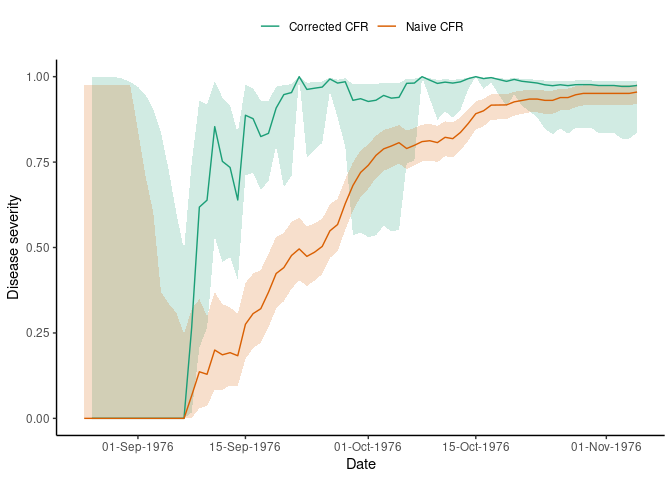
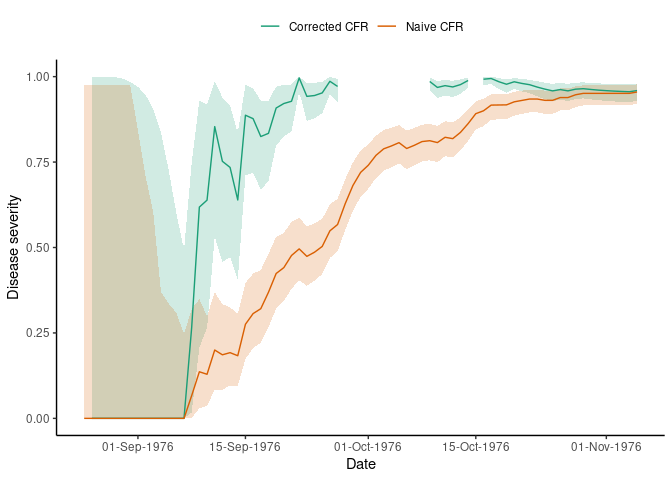
Remove normal approximation (#153)
* Remove normal approximation

Given instability of the normal approximation for many values (especially given asymmetric likelihood), and because binomial implementation is quick, this is being removed to ensure accurate outputs.

* Update documentation

Output NA if total_outcomes<=total_deaths

* Update README example

Focus on early stage

* Fix typo and add news

* Update tests and linting

* Address linting issues

* Fix remaining linting

* Run styler

* Automatic readme update

* Remove pkgdown: as_is: true

Knitted vignettes appear to show equations OK once removed.

---------

Changed region(s): [[0.4062, 0.1562, 0.9688, 0.5]]

diff --git a/README.md b/README.md
@@ -73,21 +73,21 @@ library(cfr)
 # Load the Ebola 1976 data provided with the package
 data(ebola1976)
 
-# Calculate the static CFR without correcting for delays
-cfr_static(data = ebola1976)
-#>   severity_estimate severity_low severity_high
-#> 1          0.955102    0.9210866     0.9773771
-```
+# Focus on the first 20 days the outbreak
+ebola1976_first_30 <- ebola1976[1:30, ]
 
-``` r
+# Calculate the static CFR without correcting for delays
+cfr_static(data = ebola1976_first_30)
+#>   severity_estimate severity_low severity_high
+#> 1         0.4740741    0.3875497     0.5617606
 
 # Calculate the static CFR while correcting for delays
 cfr_static(
-  data = ebola1976,
+  data = ebola1976_first_30,
   delay_density = function(x) dgamma(x, shape = 2.40, scale = 3.33)
 )
 #>   severity_estimate severity_low severity_high
-#> 1            0.9742       0.8356        0.9877
+#> 1            0.9422       0.8701        0.9819
 ```
 
 ### Change in real-time estimates of overall severity during the 1976 Ebola outbreak
@@ -118,9 +118,6 @@ head(rolling_cfr_naive)
 #> 4 1976-08-28                 0            0         0.975
 #> 5 1976-08-29                 0            0         0.975
 #> 6 1976-08-30                 0            0         0.975
-```
-
-``` r
 
 # Calculate the rolling daily CFR while correcting for delays
 rolling_cfr_corrected <- cfr_rolling(

diff --git a/tests/testthat/_snaps/estimate_ascertainment.md b/tests/testthat/_snaps/estimate_ascertainment.md
@@ -11,20 +11,16 @@
     Code
       estimate_ascertainment(data = ebola1976, delay_density = function(x) dgamma(x,
         shape = 2.4, scale = 3.33), severity_baseline = 0.7)
-    Message
-      Total cases = 245 and p = 0.959: using Normal approximation to binomial likelihood.
     Output
         ascertainment_estimate ascertainment_low ascertainment_high
-      1              0.7185383         0.7087172          0.8377214
+      1              0.7297748         0.7147963          0.7530931
 
 # Static ascertainment from vignette
 
     Code
       estimate_ascertainment(data = covid_uk, delay_density = function(x) dlnorm(x,
         meanlog = 2.577, sdlog = 0.44), severity_baseline = 0.014)
-    Message
-      Total cases = 283420 and p = 0.206: using Normal approximation to binomial likelihood.
     Output
         ascertainment_estimate ascertainment_low ascertainment_high
-      1             0.09810792        0.02316347          0.2167183
+      1             0.06779661        0.06734007         0.06829268
 

diff --git a/NEWS.md b/NEWS.md
@@ -1,5 +1,12 @@
 # cfr (development version)
 
+# cfr 0.1.2
+
+Updated version to fix instability in normal approximation with displayed Ebola example. This release includes:
+
+1. Removal of normal approximation from the `.estimate_severity()` function, instead using the binomial likelihood unless criteria for a Poisson approximation met.
+2. Updated README example focusing on first 30 days of outbreak, to emphasise effects of not accounting for delays to outcome.
+
 # cfr 0.1.1
 
 Maintainer is changing to @adamkucharski (#143).

diff --git a/tests/testthat/_snaps/estimate_severity.md b/tests/testthat/_snaps/estimate_severity.md
@@ -4,7 +4,7 @@
       severity_estimate
     Output
       severity_estimate      severity_low     severity_high 
-                 0.9742            0.8356            0.9877 
+                 0.9592            0.9295            0.9793 
 
 ---
 

diff --git a/tests/testthat/_snaps/estimate_static.md b/tests/testthat/_snaps/estimate_static.md
@@ -12,5 +12,5 @@
       scfr_corrected
     Output
         severity_estimate severity_low severity_high
-      1            0.9742       0.8356        0.9877
+      1            0.9592       0.9295        0.9793
 
